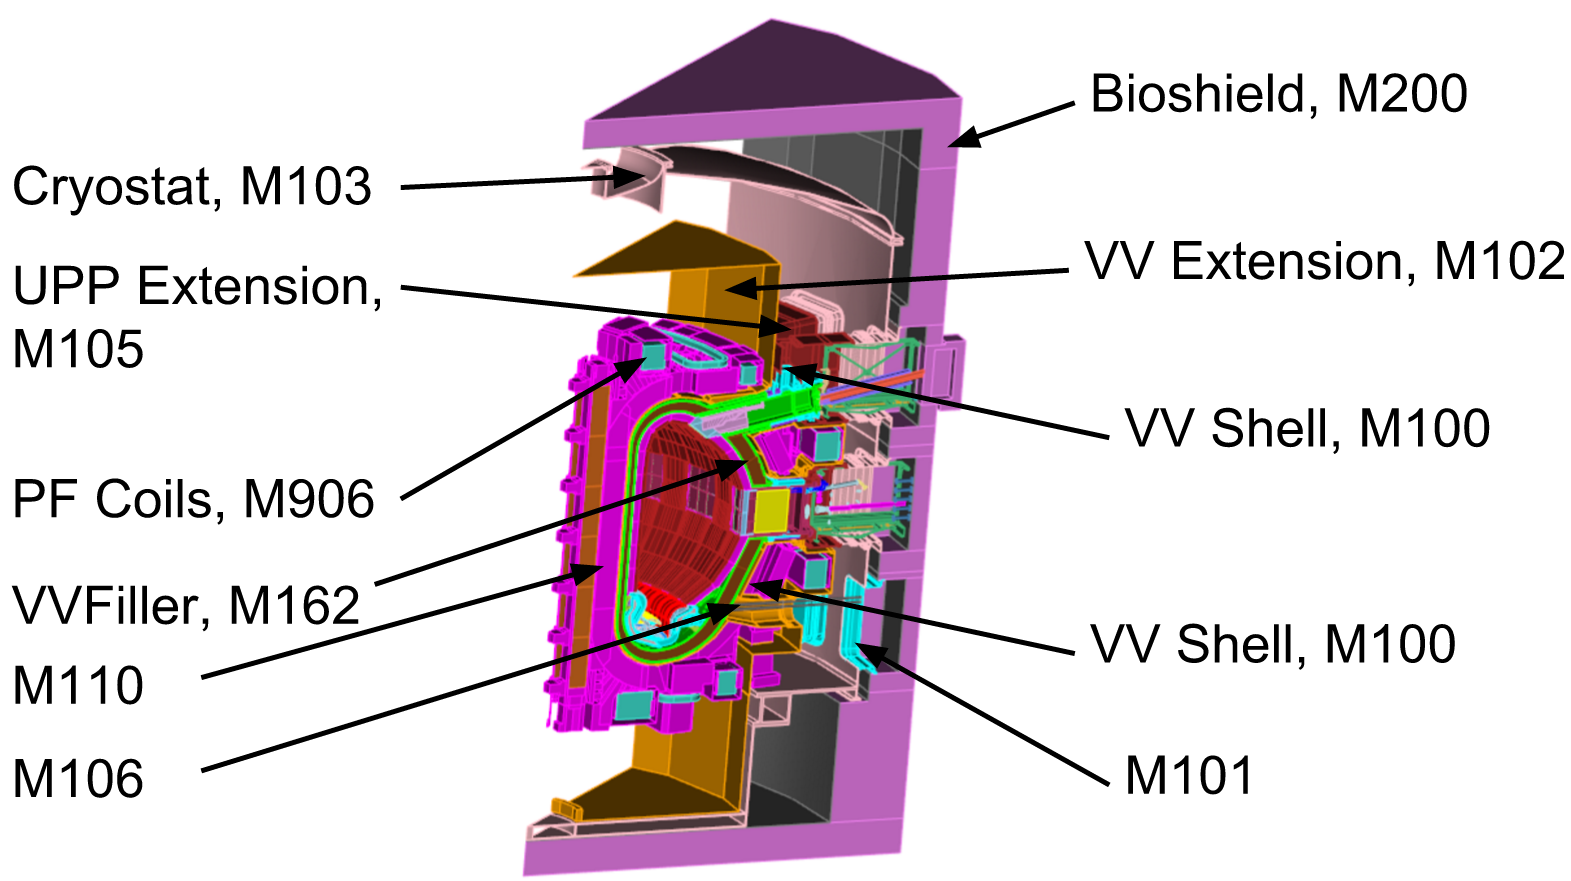
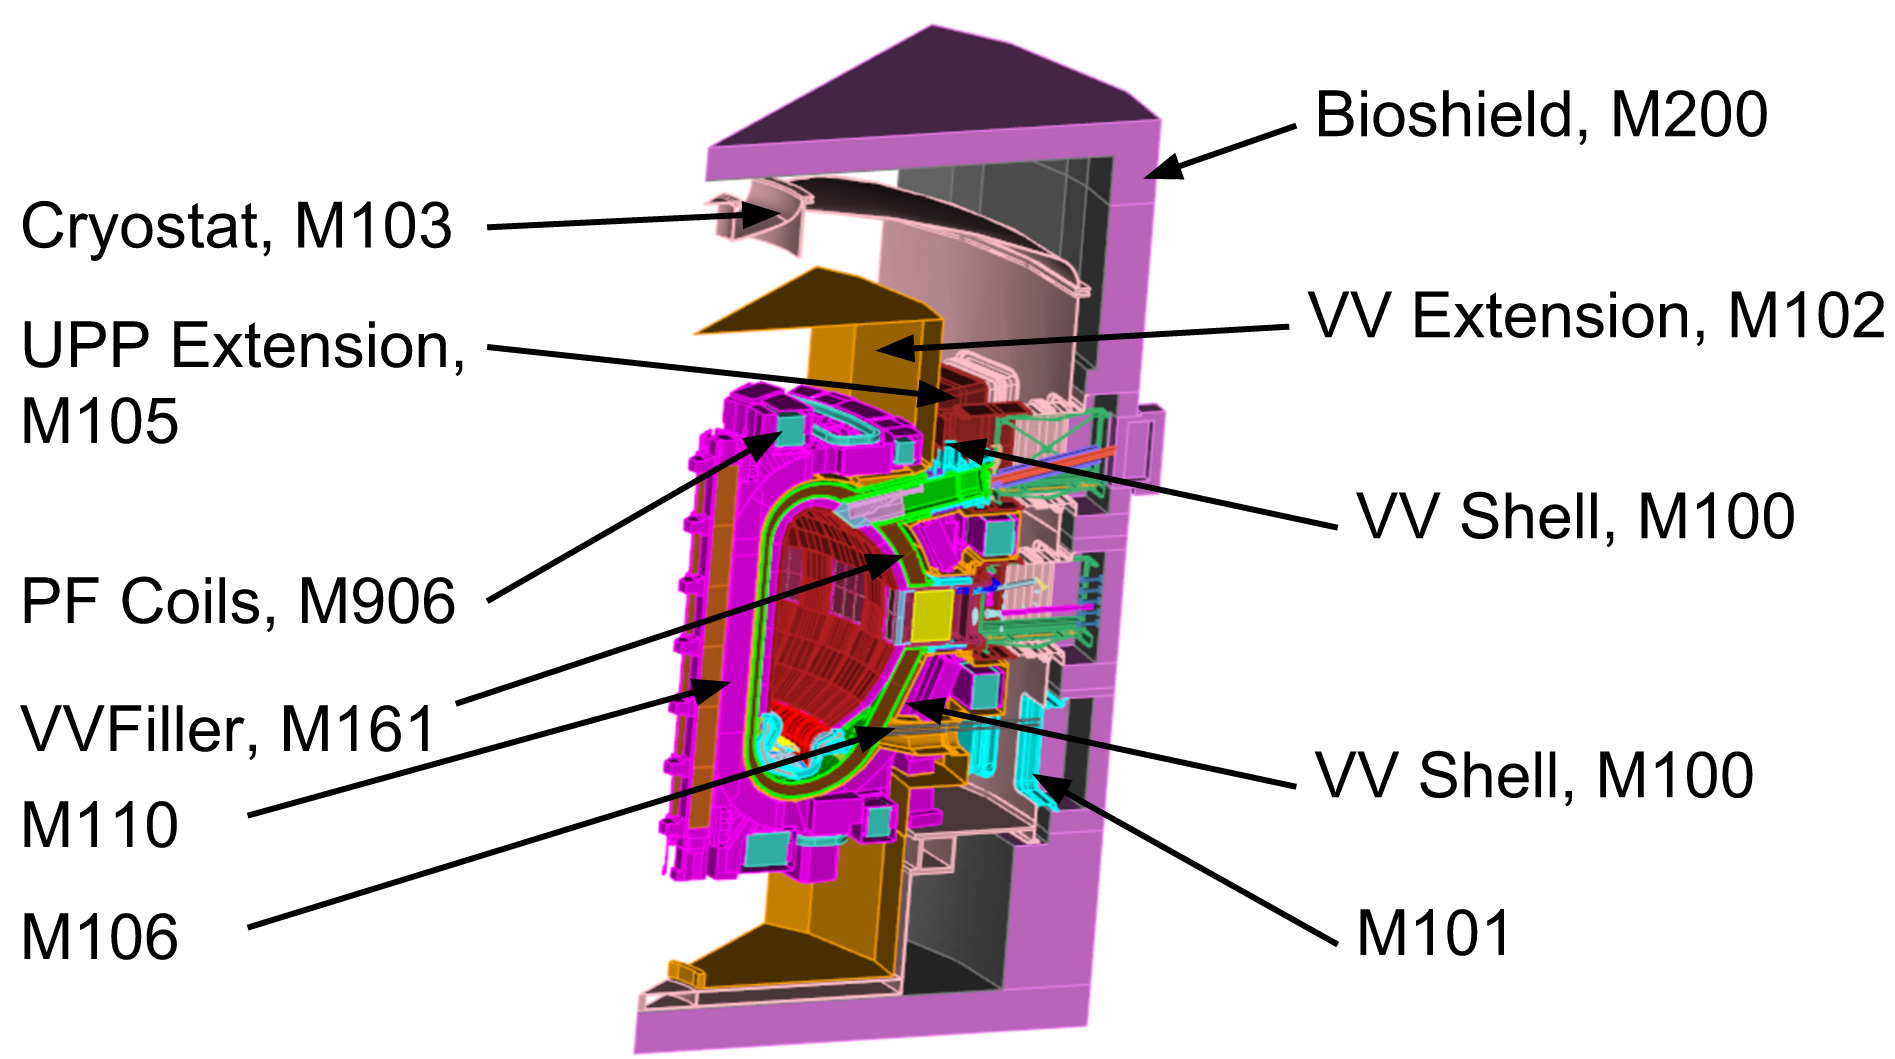
Remainder of Eduards comments

diff --git a/src/report.tex b/src/report.tex
@@ -97,6 +97,7 @@
 \newacronym{cad}{CAD}{Computer Aided Design}
 \newacronym{cadis}{CADIS}{Consistent Adjoint Driven Importance Sampling}
 \newacronym{chtc}{CHTC}{Centre for High Throughput Computing}
+\newacronym{cts}{CTS}{Cryostat Thermal Shield}
 \newacronym{d1s}{D1S}{ Direct One (1) Step}
 \newacronym{dag}{DAG}{ Direct Accelerated Geometry}
 \newacronym{dagmc}{DAGMC}{ Direct Accelerated Geometry Monte Carlo}
@@ -133,6 +134,7 @@
 \newacronym{ve}{VE}{Vessel Extension}
 \newacronym{vr}{VR}{Variance Reduction}
 \newacronym{vv}{VV}{Vacuum Vessel}
+\newacronym{vvts}{VVTS}{Vacuum Vessel Thermal Shield}
 
 
 \begin{document}
@@ -150,7 +152,7 @@
  \gls{alara_p} \\ \gls{bs} \\
  \gls{cad} \\
  \gls{cadis} \\  \gls{chtc} \\
- \gls{d1s} \\
+ \gls{cts} \\ \gls{d1s} \\
  \gls{dag} \\
  \gls{dagmc} \\ \gls{dd} \\
  \gls{endf} \\ \gls{ep} \\
@@ -167,7 +169,8 @@
  \gls{r2s} \\ \gls{sdr} \\
  \gls{ta} \\ \gls{up} \\
  \gls{upp} \\ \gls{upi} \\
- \gls{vr} \\ \gls{ve}
+ \gls{vr} \\ \gls{ve} \\
+ \gls{vvts}
 % \printnoidxglossaries[type=\acronymtype]
 %\printglossary
 %\printglossary[type=\acronymtype]
@@ -925,7 +928,7 @@ completely unmodified. The on-load neutron data is normalized as part of the
 \gls{r2s} calculation to correspond to the 
 average power for the pulse being modelled. However for reference,
 the nominal power used in the activation calculation was 500 MW, which is
-equivalent to $1.98 \times 10^{18}$ neutrons per second in the 40$^{\circ}$
+equivalent to $1.97 \times 10^{19}$ neutrons per second in the 40$^{\circ}$
 sector. Given that this is the IO approved neutron source description, it is
 assumed to be adequate for this simulation.  Neutrons from activated water
 were not considered in this problem as they represent a negligible addition
@@ -943,11 +946,12 @@ neutron source normalization used relative to nominal 500 MW operations.
       \hline
       2 Years & 2.7 & $1.061\times10^{17}$ & 0.0053 \\
       10 Years & 20.6 & $8.517\times10^{17}$ & 0.0412 \\
+      0.667 Years & 0.0 & 0.0 & 0.0 \\
       1.325 Years & 41.5 & $1.643\times10^{18}$ & 0.0830 \\
-      \cellcolor{blue!25} \cellcolor{blue!25} 400 Seconds & \cellcolor{blue!25} 500.0 & \cellcolor{blue!25} $1.980\times10^{19}$ & \cellcolor{blue!25} 1.0  \\
       \cellcolor{blue!25} 3920 Seconds & \cellcolor{blue!25} 0.0 & \cellcolor{blue!25} 0.0 & \cellcolor{blue!25} 0.0 \\
-      \cellcolor{green!25} 400 Seconds & \cellcolor{green!25} 700.0 & \cellcolor{green!25} $2.772\times10^{19}$ &\cellcolor{green!25} 1.4 \\
+      \cellcolor{blue!25} \cellcolor{blue!25} 400 Seconds & \cellcolor{blue!25} 500.0 & \cellcolor{blue!25} $1.973\times10^{19}$ & \cellcolor{blue!25} 1.0  \\
       \cellcolor{green!25} 3920 Seconds & \cellcolor{green!25} 0.0 & \cellcolor{green!25} 0.0 &\cellcolor{green!25} 0.0 \\
+      \cellcolor{green!25} 400 Seconds & \cellcolor{green!25} 700.0 & \cellcolor{green!25} $2.772\times10^{19}$ &\cellcolor{green!25} 1.4 \\
       \hline
 \end{tabular}
 \caption{The table shows the SA-2 scenario for irradiation, note the
@@ -992,26 +996,26 @@ origin of each material is described in Table \ref{tab:material_origin}.
   M74  & Tungsten &  CLITE V1 \\
   M100  & 316L(N)-IG &  CLITE V1 \\
   M101  & 316L(N)-IG &  CLITE V1 \\
-  M102  & 316L(N)-IG &  CLITE V1 \\
-  M103  & 316L(N)-IG &  CLITE V1 \\
-  M104  & 316L(N)-IG &  CLITE V1 \\
-  M105  & 316L(N)-IG &  CLITE V1 \\
-  M106  & 316L(N)-IG &  CLITE V1 \\
+  M102  & SS304LN  &  CLITE V1 \\
+  M103  & SS304/304L &  CLITE V1 \\
+  M104  & SS304 &  CLITE V1 \\
+  M105  & SS304L &  CLITE V1 \\
+  M106  & SS316L &  CLITE V1 \\
   M107  & XM-19      &  CLITE V1 \\
-  M108  & 316L(N)-IG &  CLITE V1 \\
-  M109  & 316L(N)-IG &  CLITE V1 \\
-  M110  & 316L(N)-IG &  CLITE V1 \\
-  M111  & 316L(N)-IG &  CLITE V1 \\
-  M162  & H$_2$0 + 316L(N)-IG + SS430 + XM19 &  CLITE V1 \\
+  M108  & SS316L &  CLITE V1 \\
+  M109  & STEEL 660 &  CLITE V1 \\
+  M110  & SS316LN &  CLITE V1 \\
+  M111  & SS316L &  CLITE V1 \\
+  M161  & H$_2$0 + 316L(N)-IG + XM19 + SS304B4 &  CLITE V1 \\
   M170  & H$_2$0 + 316L(N)-IG &  CLITE V1 \\
   M200  & Concrete    &  CLITE V1 \\
   M303  & NiAl Bronze &  CLITE V1 \\
   M400  & H$_2$O &  CLITE V1 \\
   M601  & H$_2$O + 316L(N)-IG &  CLITE V1 \\
   M602  & H$_2$O + 316L(N)-IG &  CLITE V1 \\
-  M603  & H$_2$O + 316L(N)-IG &  CLITE V1 \\
+  M603  & H$_2$O + CuCrZr-IG  &  CLITE V1 \\
   M611  & H$_2$O + 316L(N)-IG &  CLITE V1 \\
-  M613  & H$_2$O + 316L(N)-IG &  CLITE V1 \\
+  M613  & H$_2$O + CuCrZr-IG &  CLITE V1 \\
   M621  & H$_2$O + 316L(N)-IG &  CLITE V1 \\
   M622  & H$_2$O + 316L(N)-IG &  CLITE V1 \\
   M623  & H$_2$O + 316L(N)-IG &  CLITE V1 \\
@@ -1022,18 +1026,18 @@ origin of each material is described in Table \ref{tab:material_origin}.
   M910 & B$_4$C & Bespoke  \\
   M911 & Al T6061 & Bespoke  \\
   M912 & Al T6061 & Bespoke  \\
-  M913 & 316L(N)-IG & CLITE V1\\
-  M914 & 316L(N)-IG & CLITE V1\\
+  M913 & (Copy M100 - Clite V1) 316L(N)-IG & Bespoke\\
+  M914 & (Copy M100 - Clite V1) 316L(N)-IG & Bespoke\\
   M915 & Copy M910 & Bespoke \\
-  M916 & 316L(N)-IG & CLITE V1\\
+  M916 & (Copy M100 - Clite V1) 316L(N)-IG & Bespoke\\
   M917 & Cryopipes & \cite{cryopump_communication}\\
   M918 & 316L(N)-IG & CLITE V1 \\
-  M920 & 316L(N)-IG & CLITE V1 \\
-  M921 & 316L(N)-IG & CLITE V1 \\
-  M922 & 316L(N)-IG & CLITE V1 \\
-  M923 & 316L(N)-IG & CLITE V1 \\
-  M924 & 316L(N)-IG & CLITE V1 \\
-  M925 & 316L(N)-IG & CLITE V1 \\
+  M920 & (Copy M100 - Clite V1) 316L(N)-IG & Bespoke\\
+  M921 & (Copy M100 - Clite V1) 316L(N)-IG & Bespoke\\
+  M922 & (Copy M100 - Clite V1) 316L(N)-IG & Bespoke\\
+  M923 & (Copy M100 - Clite V1) 316L(N)-IG & Bespoke\\
+  M924 & (Copy M100 - Clite V1) 316L(N)-IG & Bespoke\\
+  M925 & (Copy M100 - Clite V1) 316L(N)-IG & Bespoke\\
   M926 & 316L(N)-IG - Frame Wheels & \cite{bertalot_communication}\\
   M927 & 316L(N)-IG - Frame Wheels Drive & \cite{bertalot_communication}\\
   M928 & 316L(N)-IG - Port Plug Frame & \cite{bertalot_communication}\\
@@ -1100,7 +1104,7 @@ FISPACT \cite{fispact} in the past and gives numerically equivalent results.
 \gls{advantg} was used to employ the \gls{fwcadis} method to generate the 
 weight windows and the source biasing parameters for the neutron transport
 calculation of this analysis. The adjoint source in \gls{advantg} was defined
-to represent a rectangular parallel pipe that extend from x=-1000 cm to x=1900
+to represent a rectangular right parallelepiped that extend from x=-1000 cm to x=1900
 cm, y=-1000 cm to y=1000 cm, and z=-1550 cm to z=1900 cm. These dimensions are
 much larger than the dimensions of the 40$^{\circ}$ sector of the ITER Clite
 model in the x and y directions to account for the reflection in these
@@ -1145,7 +1149,7 @@ activation.
   \includegraphics[scale=0.4]{../plots/transport/job_splits.png}
   \caption{The seven different mesh domains, (left) shown with some transparency
            to indicate where the major boundaries end and (right) showing the
-           absolute scale of the mesh elements}
+           absolute size of the mesh regions relative to the entire ITER geometry}
   \label{fig:mesh_domains}
 \end{figure}
 
@@ -2191,11 +2195,8 @@ to the plasma side surface of the bioshield. The reason for the this is
 significantly degraded thermal flux which impacts the importance of (n,$\gamma$)
  reactions and also the transport of neutrons back from the bioshield. The true 
 benefit appears only to be very close to the B$_4$C layer, where it reduces the
-activation of steel components near to the bioshield, those components away
-from the bioshield appear to have their activation dominated by the neutron
-transported via long paths around other ports. This is  likely due to the fact
-that most neutron induced activation in fusion devices are due to high energy
-capture reactions like (n,p), (n,2n) and (n,xn) reactions.
+activation of steel components near to the bioshield, due to the impact of the 
+B$_4$C layer. 
 \\
 \\
 What is clear is that the shutdown photon dose rate at the second decay time is
@@ -2205,9 +2206,9 @@ from 200 to 400 $\mu$Sv hr$^{-1}$. It is surmised that the reason for the
 significantly higher \gls{sdr} in this calculation is due to the increased
 mass of components modelled in the \gls{epi} which leads to higher \gls{sdr}.
 The \gls{pfc}3 \& 4 coils also are strong sources near the \gls{epi}, but being
-beyond the \gls{ve} are somewhat shielded by it. The \gls{bs} is als a
-significant source, unshielded due to is proximity to the \gls{epi}. The ever
-present photon cross talk is also present, the \gls{lp} being unplugged leads
+beyond the thermal shields are somewhat shielded by it. The \gls{bs} is als a
+significant source, unshielded due to is proximity to the \gls{epi}. Photon cross 
+talk is also present, the \gls{lp} being unplugged leads
 to strong sources in the cryopump, which has roughly the same contribution
 as the sources within the \gls{epi}.
 \\
@@ -2230,10 +2231,22 @@ significantly impacting the shielding capability.
 In a problem as large and as complicated as the geometry used in this analysis
 there are several sources of error. Specifically for \gls{sdr} calculations 
 there is a sequence of sources of uncertainty that must be considered.
-\begin{itemize} 
+\begin{itemize}
+\item{Geometry Simplification - the ITER CAD geometry model is composed of several 
+      independently constructed models of individual parts of the geometry. Several stages of 
+      CAD defeaturing takes place where extraneous details are removed. Each complex
+      CAD surface is simplified to an analytic surface which approximates the true CAD surface.
+      This process necessarily generates a degree of approximation.} 
+\item{Geometry Uncertainty- there is an uncertainty associated with geometry. In DAGMC
+      the underlying CAD geometry is faceted to within a given tolerance, such that the
+      triangular facets that the geometry is composed of lie within a given delta of the CAD
+      surface. }
+\item{Material Composition - Material compositions have uncertainties due to deviations from
+      the materials as the device would be built. Often materials are defined by the combination
+      of several other materials and are determined by homogenization, which leads to further
+      uncertainty.}
 \item{Transport Nuclear data uncertainty - there is an uncertainty associated with each 
-      reaction channel in each cross section in the problem, similarly for photons there are 
-      uncertainties in angular distributions of emitted particles}
+      reaction channel in each cross section in the problem for both photons and neutrons.}
 \item{Neutron Mesh Resolution - the bounds of the neutron mesh defince the 
       profile of each volume element, how large the mesh element is relative
       to the neutron and photon mean free paths define how adapted to the 
@@ -2283,7 +2296,7 @@ estimate of the effect is difficult to summarize, but a relative error of 10\% d
 flux as a lower bound and an upper bound of 20\% is ascribed.}
 \end{enumerate}
 The smallest the total relative error could be therefore in the range 0.7 to 1.45 and the highest reasonable 
-estimate is 0.5 to 2.0
+estimate is 0.5 to 2.0.
 
 \newpage
 \clearpage
